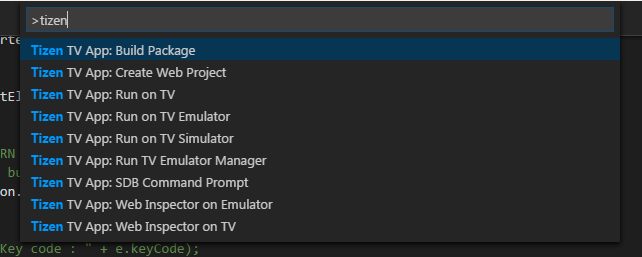
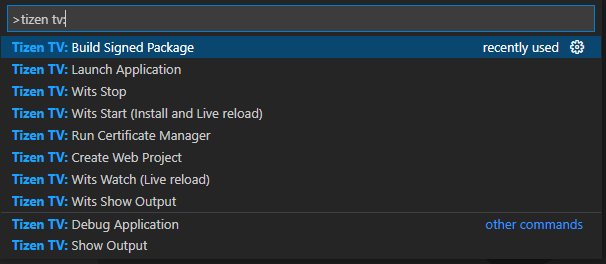
Update guides

Changed region(s): [[0.0, 0.0, 1.0, 0.9961], [0.802, 0.8405, 0.9802, 0.8716]]

diff --git a/README.md b/README.md
@@ -7,7 +7,7 @@
   <br>
 </h1>
 
-<h4 align="center">Generate/Edit/Package/Run/Debug your applications with Tizen Targets</h4>
+<h4 align="center">Generate/Edit/Package/Launch(Run, Debug) your applications with Tizen Targets</h4>
 
 <p align="center">
   <a href="https://github.com/samsung/vscode-extension-tizentv"><img src="https://raw.githubusercontent.com/samsung/vscode-extension-tizentv/master/images/buildpassing.png?branch=master" alt="Source"></a>
@@ -15,27 +15,35 @@
   <a href="https://github.com/samsung/vscode-extension-tizentv/wiki"><img src="https://raw.githubusercontent.com/samsung/vscode-extension-tizentv/master/images/chatter.png?branch=master" alt="Wiki"></a>
 </p>
 
-'TizenTV' is a VS Code extension that provides a lightweight IDE for Tizen application developers, helps to generate, update and package an application, also run and debug an application on Tizen targets.
+'TizenTV' is a VS Code extension that provides a lightweight IDE for Tizen application developers, helps to generate, update and package an application, also launch (run, debug mode) an application on Tizen targets.
 
 ![Demo](https://raw.githubusercontent.com/samsung/vscode-extension-tizentv/master/images/demo.gif)
 
 ## Supported features 
-* Tizen TV: Build Signed Package  
-  Build the Tizen application into a Tizen package, the package will be located in workspace's root 
+
 * Tizen TV: Create Web Project  
   Create a Tizen web application based on templates
-* Tizen TV: Debug Application
-  Use google-chrome to debug with web inspector, please configure the chrome executable's path in user setting 
-* Tizen TV: Launch Application  
-  Launch Tizen application on tizen TV, TV Emulator or TV Simulator, please configure the target address in user setting, also set TV as developer mode  
 * Tizen TV: Run Certificate Manager  
   Create/Retrieve/Update/Delete an author's profile by tizentv
+* Tizen TV: Build Signed Package  
+  Build the Tizen application into a Tizen package, the package will be located in workspace's root 
+* Tizen TV: Launch Application  
+  Launch Tizen application on tizen TV, TV Emulator or TV Simulator, please configure the target address in user setting, also set TV as developer mode  
+* Tizen TV: Debug Application
+  Use google-chrome to debug with web inspector, please configure the chrome executable's path in user setting 
+* Tizen TV: Show Output
+  Open Tizen TV output channel for details
 * Tizen TV: Wits Start (Install and Live reload)
-* Tizen TV: Wits Watch (Live reload)  
   Development tool for helping to run and develop your Tizen web application easily on your 2017+ Samsung TV. Find more details about Wits at *https://github.com/Samsung/Wits*
+* Tizen TV: Wits Watch (Live reload)  
+  Run `live reload` without installing the package again.
+* Tizen TV: Wits Stop  
+  Stop `live reload` feature.
+* Tizen TV: Wits Show Output
+  Open Wits output channel for details
 
 ## Getting Started
-The extension supports most of the basic features required to develop a Tizen TV app. It supports to create application using predefined templates, package the application, sign the application using certificate profile, launch or debug application on TV Simulator, Emulator and Tizen TV.
+The extension supports most of the basic features required to develop a Tizen TV app. It supports to create application using predefined templates, package the application, sign the application using certificate profile, launch (run / debug) application on TV Simulator, Emulator and Tizen TV.
 
 ### Setup Environment  
 1. Install latest VS Code release  
@@ -43,22 +51,25 @@ The extension supports most of the basic features required to develop a Tizen TV
    *https://code.visualstudio.com/docs/setup/setup-overview* 
 2. Execute *ext install tizentv* in command pallete(or clone tizentv-x.x.x.vsix from github, install with terminal command)  
    *#code --install-extension tizentv-x.x.x.vsix*  
-3. Start/Restart VS Code  
-4. Use F1 to open the palette and input *>Tizen* to find commands 
-5. Use F5 to find debuggers 
-<p><img src="https://raw.githubusercontent.com/samsung/vscode-extension-tizentv/master/images/featurelist.png" alt="feature list"></p>  
+3. Start or Reload VS Code  
+4. Use F1 to open the palette and input *>Tizen TV* to find commands
+   
+<p><img src="https://raw.githubusercontent.com/samsung/vscode-extension-tizentv/master/images/commands.png" alt="commands"></p>
 
 ### Command Configuration  
 For running/debugging an app, please configure one of below items:  
-File > Preferences > User Settings or Code >Preferences > User Settings  
-* tizentv.simulatorLocation  
-  Configuration of TV simulator's executable location  
-* tizentv.chromeExecutable  
-  Configuration of chrome executable's path  
-* tizentv.targetDeviceAddress  
-  Configuration of target TV's IP address  
+File > Preferences > User Settings or Code > Preferences > User Settings  
 * tizentv.hostPCAddress  
   Configuration of user's host PC IP address  
+* tizentv.targetDeviceAddress  
+  Configuration of target TV's IP address  
+* tizentv.simulatorLocation  
+  Configuration of TV simulator's executable location  
+* tizentv.excludeFiles 
+  Add files should be excluded
+* tizentv.chromeExecutable  
+  Configuration of chrome executable's path
+
 <p><img src="https://raw.githubusercontent.com/samsung/vscode-extension-tizentv/master/images/setting.png" alt="setting"></p>
 
 ## F.A.Q
